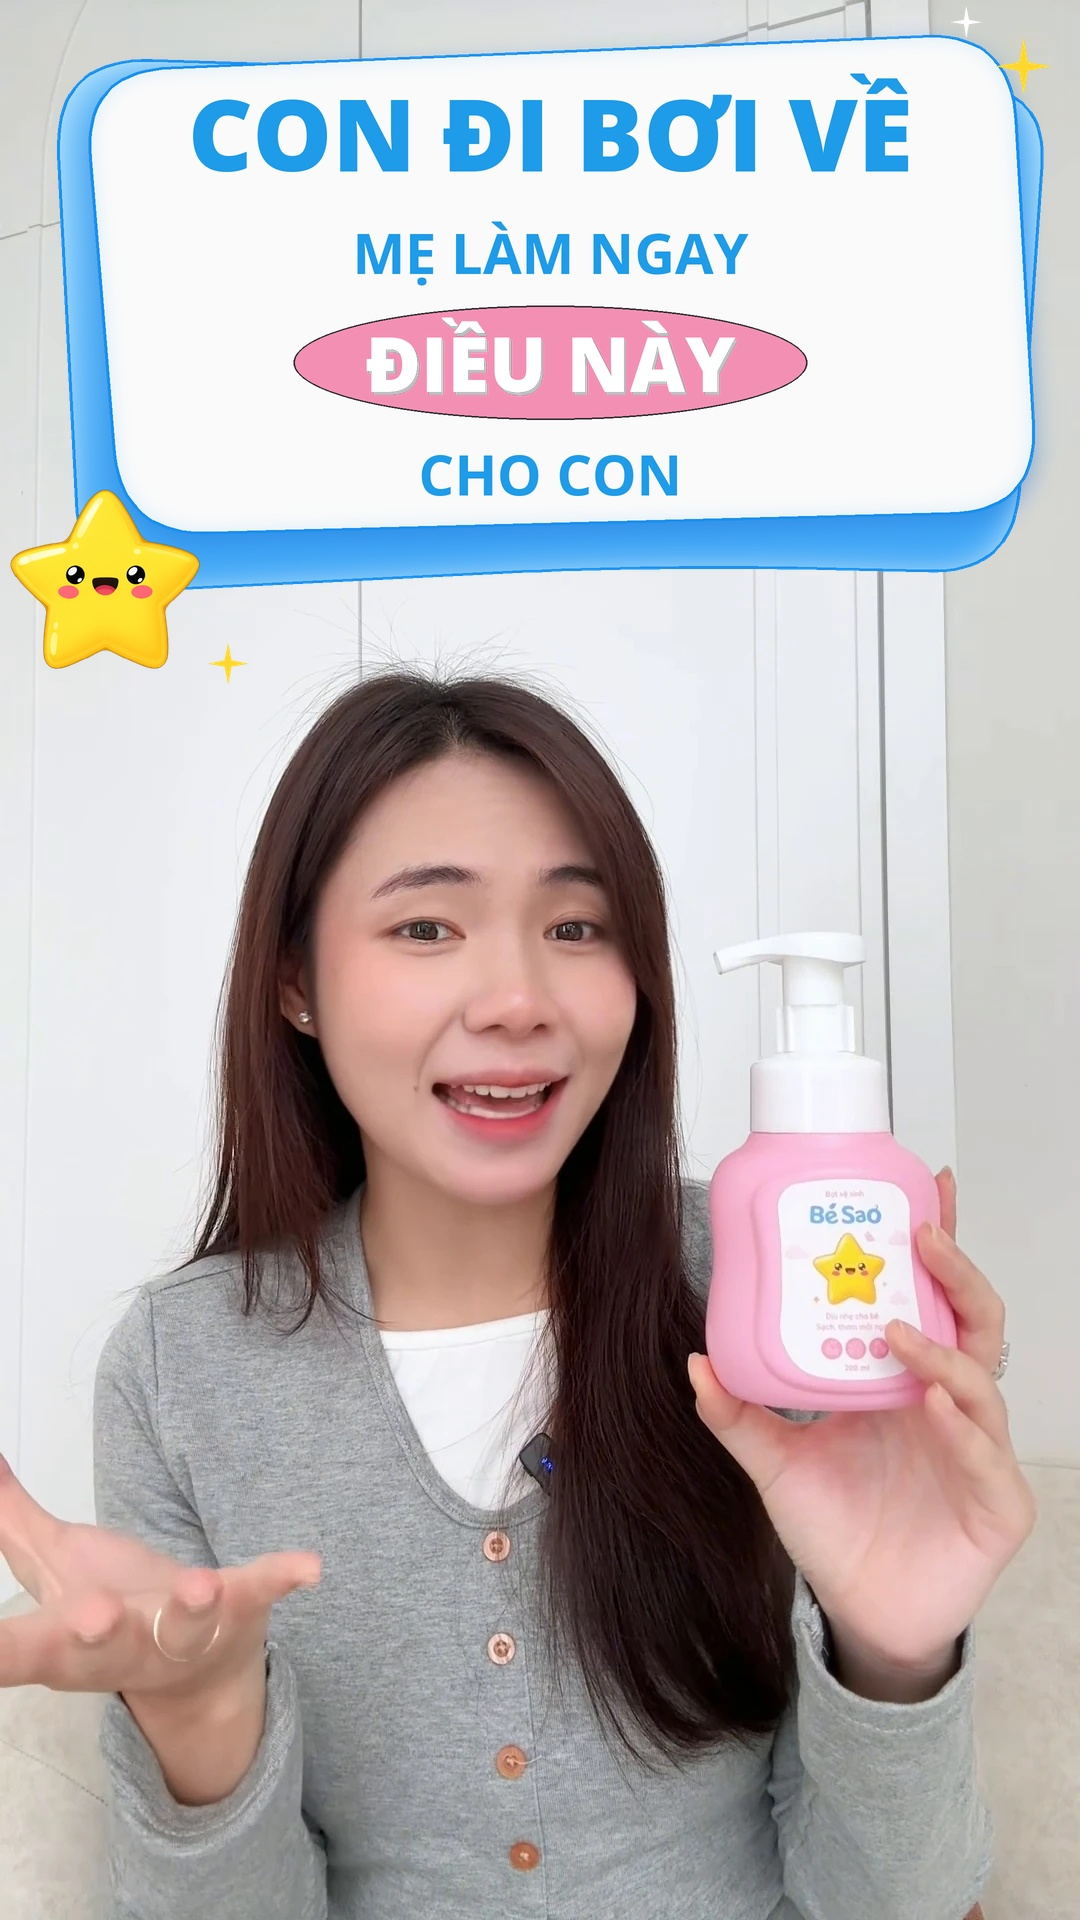
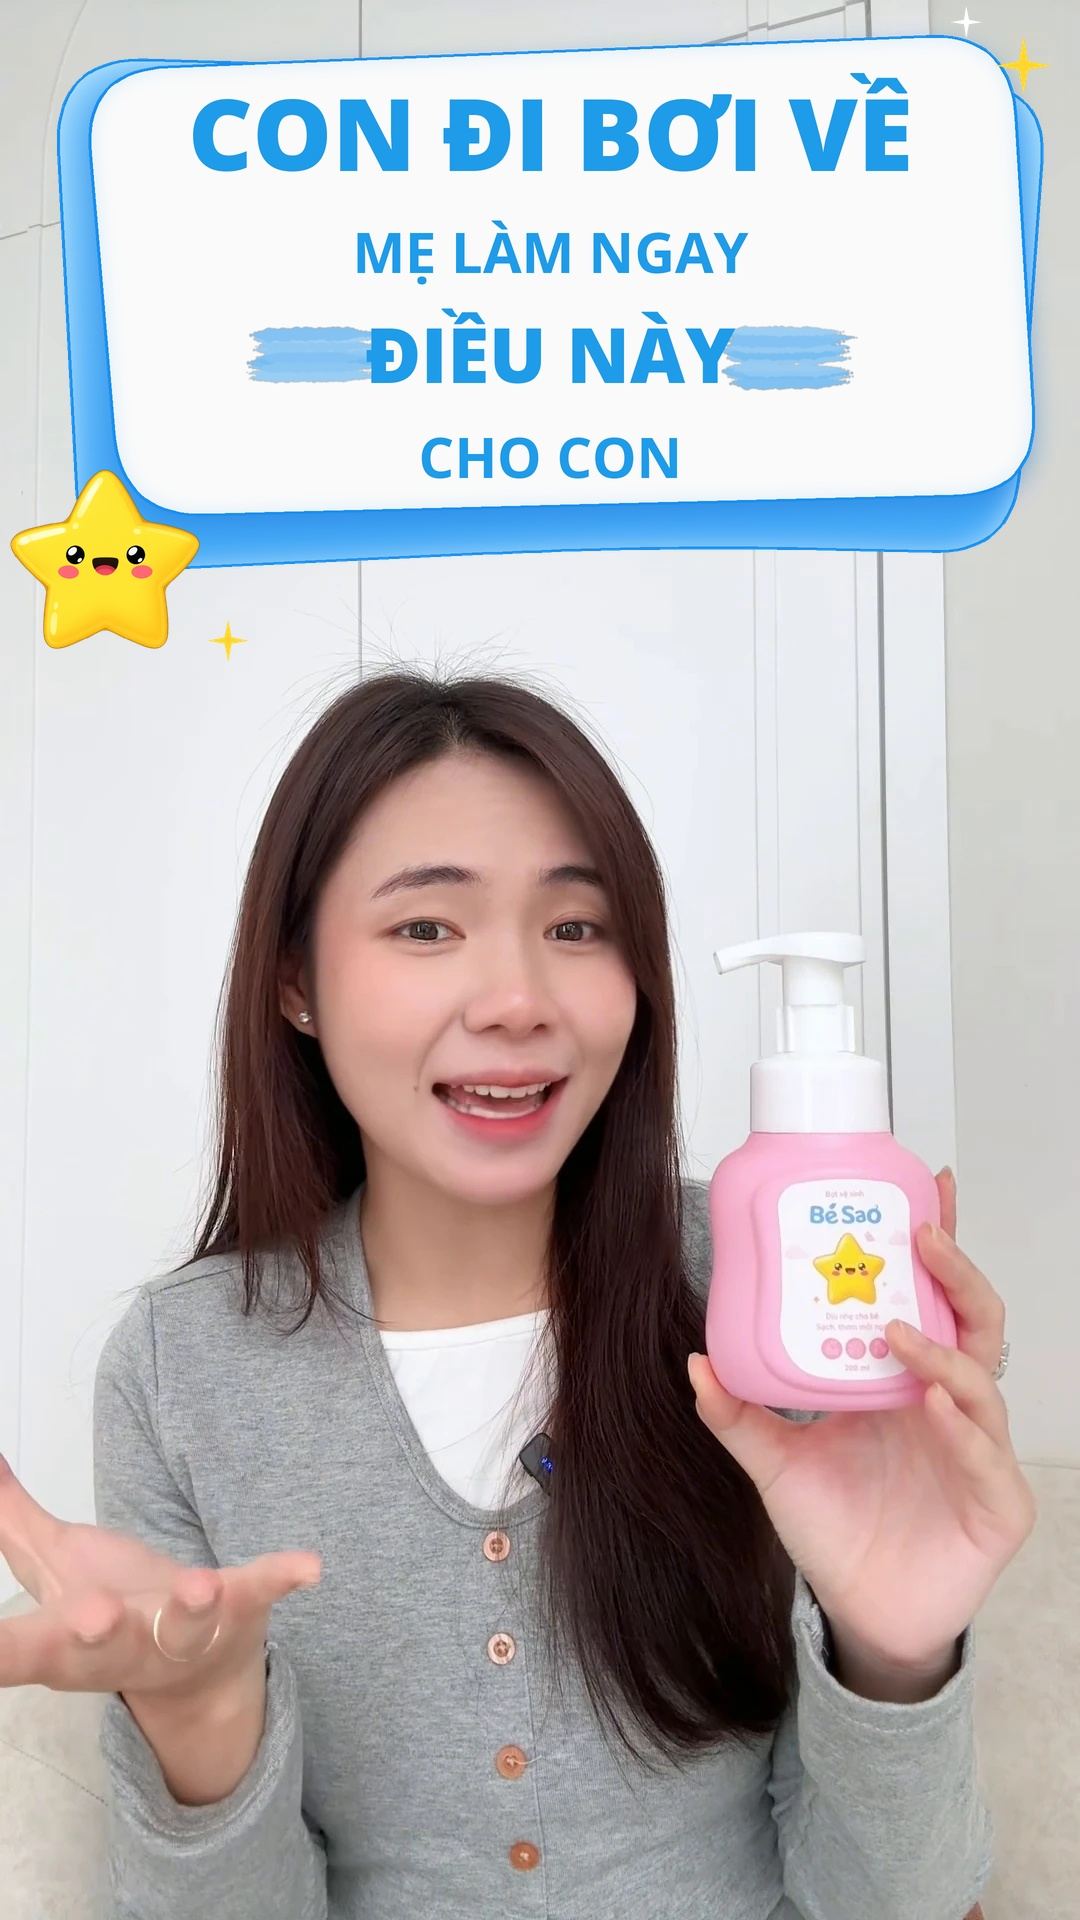
Use blue brush on the Con đi bơi về cover; hand-brushed strokes
Replace the pink pill with blue brush strokes as asked, and redraw the
brush and highlighter strokes as many thin tapered dabs so they read as
real brush marks instead of flat bars.

Claude-Session: https://claude.ai/code/session_01Ug3WuR9fbtqxhsVyfjB7mN

diff --git a/.claude/skills/tao-anh-bia/scripts/tao_anh_bia.py b/.claude/skills/tao-anh-bia/scripts/tao_anh_bia.py
@@ -564,17 +564,28 @@ def chon_co_chu(dong, rong_toi_da, ty_le=1.0):
 
 
 def ve_net_co(layer, x0, x1, ymid, cao, mau, seed, so_net=16):
+    """Vệt cọ/bút dạ: nhiều nét mảnh, hai đầu thon và lởm chởm như quét bằng cọ khô."""
     rnd = random.Random(seed)
     tmp = Image.new("RGBA", layer.size, (0, 0, 0, 0))
     d = ImageDraw.Draw(tmp)
-    for _ in range(so_net):
-        y = ymid + (rnd.random() - 0.5) * cao
-        wd = int(cao * rnd.uniform(0.25, 0.5))
-        a = rnd.randint(140, 210)
-        xa = x0 + rnd.uniform(0, 0.06) * (x1 - x0)
-        xb = x1 - rnd.uniform(0, 0.06) * (x1 - x0)
-        d.line([(xa, y + rnd.uniform(-3, 3) * S), (xb, y + rnd.uniform(-3, 3) * S)], fill=mau + (a,), width=max(2, wd))
-    tmp = tmp.filter(ImageFilter.GaussianBlur(S * 0.8))
+    dai = x1 - x0
+    for _ in range(int(so_net * 1.6)):
+        y = ymid + (rnd.random() - 0.5) * cao * 0.85
+        day = cao * rnd.uniform(0.1, 0.22)
+        a = rnd.randint(120, 200)
+        xa = x0 + rnd.uniform(0, 0.12) * dai
+        xb = x1 - rnd.uniform(0, 0.12) * dai
+        nghieng = rnd.uniform(-0.03, 0.03) * cao
+        buoc = max(2, int(day * 0.35))
+        n = max(2, int((xb - xa) / buoc))
+        for k in range(n + 1):
+            tt = k / n
+            x = xa + (xb - xa) * tt
+            # đầu nét thon lại, đầu cuối kéo lởm chởm
+            r = day / 2 * min(1, tt * 6, (1 - tt) * 3 + 0.15) * rnd.uniform(0.85, 1.1)
+            yy = y + nghieng * (tt - 0.5) + rnd.uniform(-0.6, 0.6) * S
+            d.ellipse([x - r, yy - r, x + r, yy + r], fill=mau + (a,))
+    tmp = tmp.filter(ImageFilter.GaussianBlur(S * 0.6))
     layer.alpha_composite(tmp)
 
 
